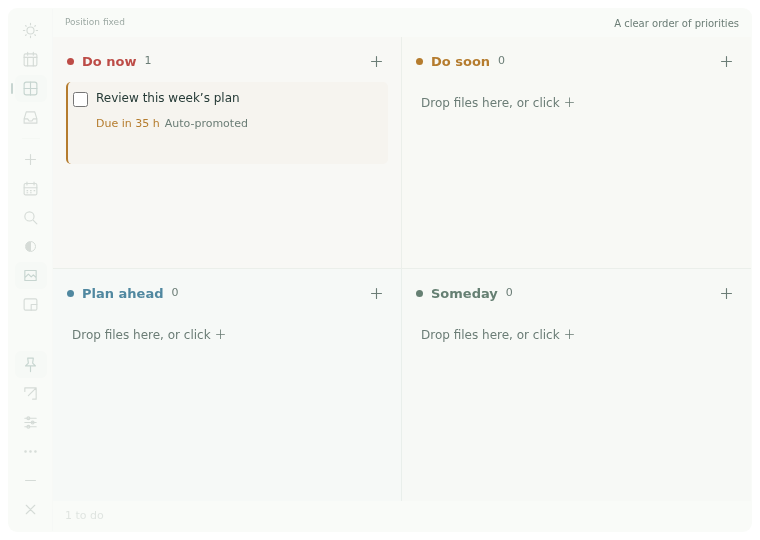
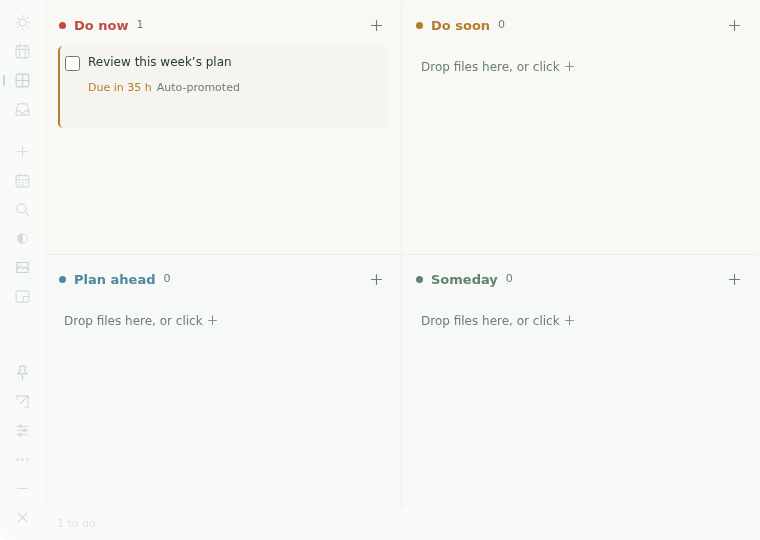
fix: dock flush to top-right edge and remove caption row

diff --git a/src/renderer/styles.css b/src/renderer/styles.css
@@ -2,7 +2,7 @@
 @media(prefers-color-scheme:dark){:root{--surface-rgb:26,47,35}}
 :root[data-theme="light"]{color-scheme:light;--surface-rgb:247,251,246}
 :root[data-theme="dark"]{color-scheme:dark;--surface-rgb:26,47,35}
-*{box-sizing:border-box}body{margin:0;padding:8px;background:transparent;color:var(--ink);height:100vh;overflow:hidden}button,input,select,textarea{font:inherit}button{color:var(--ink);border:0;background:transparent;border-radius:6px;padding:6px 9px;cursor:pointer;display:inline-flex;align-items:center;justify-content:center;gap:6px;line-height:1.5}button:hover{background:color-mix(in srgb,var(--surface) 80%,transparent)}button:disabled{cursor:default;opacity:.45}button:focus-visible,input:focus-visible,select:focus-visible,textarea:focus-visible{outline:2px solid var(--accent);outline-offset:3px}input,select,textarea{color:var(--ink);background:var(--field);border:1px solid var(--line);border-radius:6px;min-width:0}input:not([type="checkbox"]):not([type="range"]),select,textarea{padding:8px 10px}input[type="checkbox"]{accent-color:var(--accent);width:15px;height:15px;margin:3px 0;flex-shrink:0}input[type="range"]{accent-color:var(--accent);padding:0;cursor:pointer}select{cursor:pointer}textarea{resize:vertical;max-height:160px}button,.task{user-select:none}small{font-size:11px;color:var(--muted)}p{margin:0}h2{margin:0;font-size:13px;font-weight:500}[hidden]{display:none!important}.icon-defs{position:absolute;width:0;height:0;overflow:hidden}.icon{width:17px;height:17px;stroke:currentColor;stroke-width:1.6;stroke-linecap:round;stroke-linejoin:round;fill:none;flex-shrink:0}.app-window{height:100%;display:flex;flex-direction:column;position:relative;border:1px solid color-mix(in srgb,var(--line) 65%,transparent);border-radius:12px;background:rgba(var(--surface-rgb),var(--alpha));overflow:hidden;box-shadow:0 5px 16px #102c1412}.toolbar{height:54px;flex-shrink:0;padding:0 15px;display:flex;align-items:center;justify-content:space-between;border-bottom:1px solid color-mix(in srgb,var(--line) 60%,transparent);-webkit-app-region:drag}.brand{display:flex;align-items:center;gap:9px;letter-spacing:3px;font-weight:500}.brand .icon{width:18px;height:18px}.toolbar-controls{display:flex;align-items:center;gap:4px;-webkit-app-region:no-drag}.toolbar button{height:30px;min-width:28px}.toolbar .subtle{color:var(--muted);font-size:11px}.toolbar-divider{width:1px;height:16px;background:var(--line);margin:0 5px}.opacity-dot{width:11px;height:11px;border-radius:50%;border:1px solid currentColor;background:linear-gradient(90deg,currentColor 50%,transparent 50%)}.opacity-button{min-width:57px!important;margin-right:4px}.window-control{color:var(--muted)}#close-window:hover{background:var(--red);color:var(--on-accent)}.workspace{display:grid;grid-template-columns:minmax(0,1fr);flex:1;min-height:0}.workspace.with-calendar{grid-template-columns:minmax(0,1fr) 265px}.board{display:grid;grid-template-columns:repeat(2,minmax(0,1fr));grid-template-rows:repeat(2,minmax(0,1fr));min-height:0;min-width:0}.zone{min-height:0;min-width:0;padding:18px 14px 12px;display:flex;flex-direction:column}.zone:nth-child(odd){border-right:1px solid color-mix(in srgb,var(--line) 65%,transparent)}.zone:nth-child(-n+2){border-bottom:1px solid color-mix(in srgb,var(--line) 65%,transparent)}.zone-heading{display:flex;align-items:center;justify-content:space-between;margin-bottom:12px;padding:0 5px}.zone-heading h2{display:flex;align-items:center;gap:8px}.zone-heading .count{font-size:11px;color:var(--muted);font-weight:400}.zone-heading button{color:var(--muted);padding:2px}.task-list{min-height:0;overflow:auto;display:flex;flex-direction:column;gap:6px;padding:2px 4px 6px}.task{flex-shrink:0;min-width:0;border-left:2px solid var(--tone,var(--calm));border-radius:5px;padding:9px 8px;--tone:var(--calm);transition:background .16s,border-color .16s}.task[data-heat="warm"]{--tone:var(--warm)}.task[data-heat="hot"]{--tone:var(--hot)}.task[data-heat="red"],.task[data-heat="late"]{--tone:var(--red)}.task[data-heat="hot"],.task[data-heat="red"],.task[data-heat="late"]{background:color-mix(in srgb,var(--tone) 7%,transparent)}.task[data-selected="true"]{outline:1px solid var(--accent);background:color-mix(in srgb,var(--surface) 65%,transparent)}.task:hover{background:color-mix(in srgb,var(--surface) 55%,transparent)}.task-top{display:flex;gap:8px;align-items:flex-start}.task-title{padding:0;flex:1;min-width:0;text-align:left;justify-content:flex-start;overflow-wrap:anywhere;font-size:13px}.task-title:hover{background:transparent}.task-top input{cursor:pointer;margin-top:3px}.task-meta{margin:6px 0 0 23px;display:flex;align-items:center;flex-wrap:wrap;gap:7px;font-size:11px;color:var(--muted)}.due{color:var(--tone)}.file-tag{display:flex;gap:3px;align-items:center;min-width:0;max-width:100%}.file-tag .icon{width:12px;height:12px}.file-tag span{overflow:hidden;text-overflow:ellipsis;white-space:nowrap;max-width:150px}.empty-zone{color:var(--muted);font-size:12px;text-align:left;padding:12px 6px;opacity:.75}.drop-target{outline:1px dashed var(--accent);outline-offset:-5px;background:color-mix(in srgb,var(--surface) 65%,transparent)}.statusbar{min-height:35px;padding:7px 16px;border-top:1px solid color-mix(in srgb,var(--line) 65%,transparent);display:flex;align-items:center;gap:12px;font-size:11px;color:var(--muted);flex-shrink:0}.statusbar #task-count{white-space:nowrap}.statusbar #toast{overflow:hidden;text-overflow:ellipsis;white-space:nowrap}.statusbar .save-status{margin-left:auto;white-space:nowrap;opacity:.8}.text-button{color:var(--muted);padding:3px 5px;font-size:12px}.text-button:hover{color:var(--ink)}.statusbar .text-button{font-size:11px;text-decoration:underline;padding:0 2px}.popover{position:absolute;background:var(--surface);border:1px solid var(--line);border-radius:9px;box-shadow:0 8px 22px #09291320;z-index:5}.opacity-popover{top:48px;right:214px;width:215px;padding:15px}.opacity-popover label{display:flex;justify-content:space-between;font-size:12px}.opacity-popover input{width:100%;margin:12px 0 7px}.range-labels{display:flex;justify-content:space-between;color:var(--muted);font-size:11px}.opacity-popover .text-button{margin:7px 0 0 -5px;font-size:11px}.app-menu{top:48px;right:82px;width:155px;padding:6px}.app-menu button{display:flex;width:100%;justify-content:flex-start;padding:8px 10px;font-size:12px}.app-menu hr{border:0;border-top:1px solid var(--line);margin:5px}.calendar{border-left:1px solid color-mix(in srgb,var(--line) 65%,transparent);padding:17px 14px;overflow:auto;min-width:0}.month-heading{display:flex;justify-content:space-between;align-items:center;margin-bottom:10px;font-size:12px}.month-navigation{display:flex;gap:2px}.month-navigation button{padding:3px}.month-navigation .today-button{font-size:11px;color:var(--muted);padding:3px 5px}.weekdays,.calendar-days{display:grid;grid-template-columns:repeat(7,minmax(0,1fr));text-align:center;gap:3px}.weekdays{font-size:10px;color:var(--muted);margin-bottom:8px}.day{min-height:31px;position:relative;padding:4px 0 8px;font-size:12px}.day[aria-pressed="true"]{background:var(--accent);color:var(--on-accent)}.day[data-today="true"]{text-decoration:underline;text-underline-offset:4px}.day-dot{position:absolute;width:3px;height:3px;bottom:3px;left:calc(50% - 1.5px);border-radius:50%;background:currentColor}.agenda{margin-top:20px;padding-top:14px;border-top:1px solid color-mix(in srgb,var(--line) 65%,transparent)}.agenda-header{display:flex;justify-content:space-between;align-items:center;color:var(--muted);font-size:11px;margin-bottom:7px}.agenda-header button{padding:3px}.agenda-item{display:flex;width:100%;align-items:flex-start;justify-content:flex-start;text-align:left;gap:8px;font-size:12px;padding:7px 3px;overflow-wrap:anywhere}.agenda-item small{padding-top:1px;white-space:nowrap}.calendar-hint{margin-top:18px;color:var(--muted);font-size:11px}.agenda-empty{font-size:12px;color:var(--muted);padding:10px 0}.primary{background:var(--accent);color:var(--on-accent);padding:8px 16px}.primary:hover{background:var(--accent);filter:brightness(.96)}.danger-text{color:var(--red)}.spacer{flex:1}
+*{box-sizing:border-box}body{margin:0;padding:0;background:transparent;color:var(--ink);height:100vh;overflow:hidden}button,input,select,textarea{font:inherit}button{color:var(--ink);border:0;background:transparent;border-radius:6px;padding:6px 9px;cursor:pointer;display:inline-flex;align-items:center;justify-content:center;gap:6px;line-height:1.5}button:hover{background:color-mix(in srgb,var(--surface) 80%,transparent)}button:disabled{cursor:default;opacity:.45}button:focus-visible,input:focus-visible,select:focus-visible,textarea:focus-visible{outline:2px solid var(--accent);outline-offset:3px}input,select,textarea{color:var(--ink);background:var(--field);border:1px solid var(--line);border-radius:6px;min-width:0}input:not([type="checkbox"]):not([type="range"]),select,textarea{padding:8px 10px}input[type="checkbox"]{accent-color:var(--accent);width:15px;height:15px;margin:3px 0;flex-shrink:0}input[type="range"]{accent-color:var(--accent);padding:0;cursor:pointer}select{cursor:pointer}textarea{resize:vertical;max-height:160px}button,.task{user-select:none}small{font-size:11px;color:var(--muted)}p{margin:0}h2{margin:0;font-size:13px;font-weight:500}[hidden]{display:none!important}.icon-defs{position:absolute;width:0;height:0;overflow:hidden}.icon{width:17px;height:17px;stroke:currentColor;stroke-width:1.6;stroke-linecap:round;stroke-linejoin:round;fill:none;flex-shrink:0}.app-window{height:100%;display:flex;flex-direction:column;position:relative;border:1px solid color-mix(in srgb,var(--line) 65%,transparent);border-radius:12px;background:rgba(var(--surface-rgb),var(--alpha));overflow:hidden;box-shadow:0 5px 16px #102c1412}.toolbar{height:54px;flex-shrink:0;padding:0 15px;display:flex;align-items:center;justify-content:space-between;border-bottom:1px solid color-mix(in srgb,var(--line) 60%,transparent);-webkit-app-region:drag}.brand{display:flex;align-items:center;gap:9px;letter-spacing:3px;font-weight:500}.brand .icon{width:18px;height:18px}.toolbar-controls{display:flex;align-items:center;gap:4px;-webkit-app-region:no-drag}.toolbar button{height:30px;min-width:28px}.toolbar .subtle{color:var(--muted);font-size:11px}.toolbar-divider{width:1px;height:16px;background:var(--line);margin:0 5px}.opacity-dot{width:11px;height:11px;border-radius:50%;border:1px solid currentColor;background:linear-gradient(90deg,currentColor 50%,transparent 50%)}.opacity-button{min-width:57px!important;margin-right:4px}.window-control{color:var(--muted)}#close-window:hover{background:var(--red);color:var(--on-accent)}.workspace{display:grid;grid-template-columns:minmax(0,1fr);flex:1;min-height:0}.workspace.with-calendar{grid-template-columns:minmax(0,1fr) 265px}.board{display:grid;grid-template-columns:repeat(2,minmax(0,1fr));grid-template-rows:repeat(2,minmax(0,1fr));min-height:0;min-width:0}.zone{min-height:0;min-width:0;padding:18px 14px 12px;display:flex;flex-direction:column}.zone:nth-child(odd){border-right:1px solid color-mix(in srgb,var(--line) 65%,transparent)}.zone:nth-child(-n+2){border-bottom:1px solid color-mix(in srgb,var(--line) 65%,transparent)}.zone-heading{display:flex;align-items:center;justify-content:space-between;margin-bottom:12px;padding:0 5px}.zone-heading h2{display:flex;align-items:center;gap:8px}.zone-heading .count{font-size:11px;color:var(--muted);font-weight:400}.zone-heading button{color:var(--muted);padding:2px}.task-list{min-height:0;overflow:auto;display:flex;flex-direction:column;gap:6px;padding:2px 4px 6px}.task{flex-shrink:0;min-width:0;border-left:2px solid var(--tone,var(--calm));border-radius:5px;padding:9px 8px;--tone:var(--calm);transition:background .16s,border-color .16s}.task[data-heat="warm"]{--tone:var(--warm)}.task[data-heat="hot"]{--tone:var(--hot)}.task[data-heat="red"],.task[data-heat="late"]{--tone:var(--red)}.task[data-heat="hot"],.task[data-heat="red"],.task[data-heat="late"]{background:color-mix(in srgb,var(--tone) 7%,transparent)}.task[data-selected="true"]{outline:1px solid var(--accent);background:color-mix(in srgb,var(--surface) 65%,transparent)}.task:hover{background:color-mix(in srgb,var(--surface) 55%,transparent)}.task-top{display:flex;gap:8px;align-items:flex-start}.task-title{padding:0;flex:1;min-width:0;text-align:left;justify-content:flex-start;overflow-wrap:anywhere;font-size:13px}.task-title:hover{background:transparent}.task-top input{cursor:pointer;margin-top:3px}.task-meta{margin:6px 0 0 23px;display:flex;align-items:center;flex-wrap:wrap;gap:7px;font-size:11px;color:var(--muted)}.due{color:var(--tone)}.file-tag{display:flex;gap:3px;align-items:center;min-width:0;max-width:100%}.file-tag .icon{width:12px;height:12px}.file-tag span{overflow:hidden;text-overflow:ellipsis;white-space:nowrap;max-width:150px}.empty-zone{color:var(--muted);font-size:12px;text-align:left;padding:12px 6px;opacity:.75}.drop-target{outline:1px dashed var(--accent);outline-offset:-5px;background:color-mix(in srgb,var(--surface) 65%,transparent)}.statusbar{min-height:35px;padding:7px 16px;border-top:1px solid color-mix(in srgb,var(--line) 65%,transparent);display:flex;align-items:center;gap:12px;font-size:11px;color:var(--muted);flex-shrink:0}.statusbar #task-count{white-space:nowrap}.statusbar #toast{overflow:hidden;text-overflow:ellipsis;white-space:nowrap}.statusbar .save-status{margin-left:auto;white-space:nowrap;opacity:.8}.text-button{color:var(--muted);padding:3px 5px;font-size:12px}.text-button:hover{color:var(--ink)}.statusbar .text-button{font-size:11px;text-decoration:underline;padding:0 2px}.popover{position:absolute;background:var(--surface);border:1px solid var(--line);border-radius:9px;box-shadow:0 8px 22px #09291320;z-index:5}.opacity-popover{top:48px;right:214px;width:215px;padding:15px}.opacity-popover label{display:flex;justify-content:space-between;font-size:12px}.opacity-popover input{width:100%;margin:12px 0 7px}.range-labels{display:flex;justify-content:space-between;color:var(--muted);font-size:11px}.opacity-popover .text-button{margin:7px 0 0 -5px;font-size:11px}.app-menu{top:48px;right:82px;width:155px;padding:6px}.app-menu button{display:flex;width:100%;justify-content:flex-start;padding:8px 10px;font-size:12px}.app-menu hr{border:0;border-top:1px solid var(--line);margin:5px}.calendar{border-left:1px solid color-mix(in srgb,var(--line) 65%,transparent);padding:17px 14px;overflow:auto;min-width:0}.month-heading{display:flex;justify-content:space-between;align-items:center;margin-bottom:10px;font-size:12px}.month-navigation{display:flex;gap:2px}.month-navigation button{padding:3px}.month-navigation .today-button{font-size:11px;color:var(--muted);padding:3px 5px}.weekdays,.calendar-days{display:grid;grid-template-columns:repeat(7,minmax(0,1fr));text-align:center;gap:3px}.weekdays{font-size:10px;color:var(--muted);margin-bottom:8px}.day{min-height:31px;position:relative;padding:4px 0 8px;font-size:12px}.day[aria-pressed="true"]{background:var(--accent);color:var(--on-accent)}.day[data-today="true"]{text-decoration:underline;text-underline-offset:4px}.day-dot{position:absolute;width:3px;height:3px;bottom:3px;left:calc(50% - 1.5px);border-radius:50%;background:currentColor}.agenda{margin-top:20px;padding-top:14px;border-top:1px solid color-mix(in srgb,var(--line) 65%,transparent)}.agenda-header{display:flex;justify-content:space-between;align-items:center;color:var(--muted);font-size:11px;margin-bottom:7px}.agenda-header button{padding:3px}.agenda-item{display:flex;width:100%;align-items:flex-start;justify-content:flex-start;text-align:left;gap:8px;font-size:12px;padding:7px 3px;overflow-wrap:anywhere}.agenda-item small{padding-top:1px;white-space:nowrap}.calendar-hint{margin-top:18px;color:var(--muted);font-size:11px}.agenda-empty{font-size:12px;color:var(--muted);padding:10px 0}.primary{background:var(--accent);color:var(--on-accent);padding:8px 16px}.primary:hover{background:var(--accent);filter:brightness(.96)}.danger-text{color:var(--red)}.spacer{flex:1}
 dialog{padding:0;color:var(--ink);background:var(--surface);border:1px solid var(--line);border-radius:12px;box-shadow:0 16px 60px #00140733;max-width:calc(100vw - 40px);max-height:calc(100vh - 42px);overflow:auto}dialog::backdrop{background:light-dark(#19342428,#06150b50)}.task-dialog{width:550px}.dialog-heading{height:51px;display:flex;align-items:center;justify-content:space-between;padding:0 20px;border-bottom:1px solid var(--line);font-weight:500;position:sticky;top:0;background:var(--surface);z-index:1}.dialog-heading button{padding:5px}.editor-body{padding:18px 22px;display:grid;gap:14px}.field{display:flex;flex-direction:column;gap:6px;min-width:0}.field>span{color:var(--muted);font-size:11px}.field small{margin-left:4px;opacity:.75}.title-field input{font-size:16px;font-weight:500}.field-row{display:grid;grid-template-columns:1fr 1.5fr;gap:12px}.inline-hint{color:var(--hot);font-size:11px}.attachment-header{display:flex;align-items:center;justify-content:space-between;font-size:12px;margin-top:1px}.attachments{display:grid;gap:7px;max-height:155px;overflow:auto}.attachment{padding:8px;border:1px solid var(--line);border-radius:6px;display:flex;align-items:center;gap:7px;min-width:0}.attachment-name{flex:1;min-width:0;text-align:left;justify-content:flex-start;padding:0;overflow-wrap:anywhere;font-size:12px}.attachment-name span{min-width:0;overflow:hidden;text-overflow:ellipsis;white-space:nowrap}.attachment-actions{display:flex;gap:2px}.attachment-actions button{padding:3px;font-size:11px}.attachment.missing{border-style:dashed}.attachment.missing .attachment-name{color:var(--red)}.empty-attachments{font-size:12px;color:var(--muted);padding:10px;border:1px dashed var(--line);border-radius:6px}.check-field{display:flex;gap:8px;align-items:flex-start;font-size:12px}.check-field small{display:block}.dialog-footer{border-top:1px solid var(--line);padding:12px 20px;display:flex;gap:8px;align-items:center;position:sticky;bottom:0;background:var(--surface)}.dialog-footer button{font-size:12px}.form-error{font-size:12px;color:var(--red)}.library-dialog{width:600px}.library-tools{display:flex;gap:9px;padding:15px 20px;border-bottom:1px solid var(--line)}.library-tools input{flex:1;min-width:0}.library-tools select{max-width:155px;font-size:12px}.library-list{padding:8px 20px 20px;min-height:180px}.library-item{border-bottom:1px solid var(--line);padding:12px 0;display:flex;align-items:center;gap:10px}.library-title{flex:1;min-width:0;display:flex;flex-direction:column;align-items:flex-start;text-align:left;overflow-wrap:anywhere;padding:3px 0}.library-title small{margin-top:4px}.library-actions{display:flex;gap:4px}.library-actions button{font-size:11px;white-space:nowrap}.library-empty{padding:28px 0;text-align:center;color:var(--muted);font-size:12px}.settings-dialog{width:500px}.settings-body{padding:17px 22px}.settings-body section+section{border-top:1px solid var(--line);padding-top:17px;margin-top:17px}.settings-body h2{font-size:12px;margin-bottom:9px;color:var(--muted)}.setting-row{display:flex;align-items:center;justify-content:space-between;gap:16px;min-height:39px;font-size:12px}.setting-row span small{display:block;margin-top:2px}.setting-row select{padding:5px 8px;font-size:12px}.setting-row input[type="checkbox"]{width:16px;height:16px}.settings-body p{font-size:12px;color:var(--muted);line-height:1.8}.backup-actions{display:flex;gap:8px;margin:12px 0}.backup-actions button{border:1px solid var(--line);font-size:12px}.settings-body .about{font-size:11px;margin-top:18px;color:var(--muted);text-align:center}.confirm-dialog{width:390px}.confirm-body{padding:24px}.confirm-body h2{font-size:16px;font-weight:500}.confirm-body p{font-size:12px;color:var(--muted);margin-top:12px;line-height:1.8}.confirm-body>div{display:flex;justify-content:flex-end;gap:8px;margin-top:22px}.confirm-body button{font-size:12px}::-webkit-scrollbar{width:5px;height:5px}::-webkit-scrollbar-thumb{background:color-mix(in srgb,var(--muted) 28%,transparent);border-radius:6px}::-webkit-scrollbar-track{background:transparent}
 @media(max-width:800px){.workspace.with-calendar{grid-template-columns:minmax(0,1fr) 235px}.zone{padding:15px 9px 8px}.zone-heading{margin-bottom:8px}.task-title{font-size:12px}.task{padding:7px 5px}.file-tag span{max-width:105px}.calendar{padding:15px 10px}.toolbar{padding:0 11px}.task-meta{gap:5px}.statusbar .save-status{display:none}}
 @media(prefers-reduced-motion:reduce){*{transition:none!important}}
@@ -32,7 +32,7 @@ dialog{padding:0;color:var(--ink);background:var(--surface);border:1px solid var
 :root:lang(en){font-family:system-ui,-apple-system,"Segoe UI",sans-serif}:root:lang(en) .app-menu{width:205px}:root:lang(en) .save-status{flex-shrink:0}
 
 /* A narrow tool strip leaves the desktop panel to its tasks. */
-.app-window{display:grid;grid-template-columns:44px minmax(0,1fr);grid-template-rows:28px minmax(0,1fr) auto}
+.app-window{display:grid;grid-template-columns:44px minmax(0,1fr);grid-template-rows:minmax(0,1fr) auto}
 .tool-rail{grid-column:1;grid-row:1 / -1;display:flex;flex-direction:column;align-items:center;gap:2px;padding:8px 4px;min-height:0;overflow-y:auto;overflow-x:hidden;border-right:1px solid color-mix(in srgb,var(--line) calc(45% * var(--alpha)),transparent);scrollbar-width:thin}
 .tool-rail .view-tabs,.tool-rail .toolbar-controls{display:flex;flex-direction:column;gap:2px;padding:0;border:0;width:100%;flex-shrink:0}
 .tool-rail button{position:relative;display:flex;align-items:center;justify-content:center;width:32px;height:27px;min-height:27px;min-width:0;padding:4px;color:var(--muted);flex-shrink:0;opacity:1}
@@ -40,10 +40,9 @@ dialog{padding:0;color:var(--ink);background:var(--surface);border:1px solid var
 .tool-rail button[aria-current="true"]:before{content:"";position:absolute;left:-4px;top:8px;height:11px;width:2px;background:currentColor;border-radius:2px}
 .tool-rail #inbox-count{position:absolute;right:0;top:0;font-size:8px;line-height:10px;opacity:1}
 .rail-divider{height:1px;background:color-mix(in srgb,var(--line) calc(50% * var(--alpha)),transparent);width:18px;margin:5px 0;flex-shrink:0}.rail-spacer{flex:1;min-height:6px}
-.toolbar,.desktop-blend .toolbar,.compact-mode .toolbar{grid-column:2;grid-row:1;height:28px;padding:0 12px;border:0;gap:12px;justify-content:space-between;color:var(--muted);font-size:10px;cursor:move}
-.position-fixed .toolbar{ -webkit-app-region:no-drag;cursor:default}
-#position-status{font-size:9px;opacity:.65;white-space:nowrap}#view-caption{overflow:hidden;text-overflow:ellipsis;white-space:nowrap;opacity:var(--text-alpha)}
-.workspace,#compact-panel{grid-column:2;grid-row:2;min-height:0;min-width:0}.statusbar{grid-column:2;grid-row:3;padding:6px 12px;min-height:30px}
+.rail-spacer{-webkit-app-region:drag;cursor:move}.position-fixed .rail-spacer{-webkit-app-region:no-drag;cursor:default}
+.edge-docked .app-window{border-radius:0 0 0 10px}
+.workspace,#compact-panel{grid-column:2;grid-row:1;min-height:0;min-width:0}.statusbar{grid-column:2;grid-row:2;padding:6px 12px;min-height:30px}
 .opacity-popover{left:49px;right:auto;top:114px;max-height:calc(100% - 125px);overflow:auto}
 .app-menu{left:49px;right:auto;top:auto;bottom:42px;max-height:calc(100% - 55px);overflow:auto}
 .compact-mode .tool-rail .view-tabs,.compact-mode .rail-divider,.compact-mode #search-button,.compact-mode #calendar-toggle,.compact-mode #opacity-button,.compact-mode #blend-toggle,.compact-mode #settings-button,.compact-mode #menu-button{display:none}

diff --git a/src/renderer/index.html b/src/renderer/index.html
@@ -35,7 +35,7 @@
     <symbol id="i-move" viewBox="0 0 24 24"><path d="M12 3v18M3 12h18m-12-6 3-3 3 3M9 18l3 3 3-3M6 9l-3 3 3 3m12-6 3 3-3 3"/></symbol>
   </defs></svg>
 
-  <div class="app-window" id="app">
+  <div class="app-window" id="app" role="region" aria-label="日序">
     <aside class="tool-rail" aria-label="面板工具">
       <nav class="view-tabs" aria-label="任务视图"><button data-tab="today" aria-label="今天" title="今天"><svg class="icon" aria-hidden="true"><use href="#i-today"/></svg></button>
       <button data-tab="week" aria-label="本周" title="本周"><svg class="icon" aria-hidden="true"><use href="#i-week"/></svg></button>
@@ -50,7 +50,7 @@
       <button id="blend-toggle" aria-label="切换桌面融合模式" title="切换桌面融合模式" ><svg class="icon" aria-hidden="true"><use href="#i-blend"/></svg></button>
       <button id="compact-toggle" aria-label="缩为小窗" title="缩为小窗" ><svg class="icon" aria-hidden="true"><use href="#i-compact"/></svg></button>
       </div>
-      <div class="rail-spacer"></div>
+      <div class="rail-spacer" title="解锁后拖动此处移动"></div>
       <div class="toolbar-controls"><button id="position-toggle" aria-label="解锁位置" title="解锁位置" aria-pressed="true"><svg class="icon" aria-hidden="true"><use href="#i-pin"/></svg></button>
       <button id="dock-right" aria-label="停靠右上角" title="停靠右上角" ><svg class="icon" aria-hidden="true"><use href="#i-dock"/></svg></button>
       <button id="settings-button" aria-label="设置与备份" title="设置与备份" ><svg class="icon" aria-hidden="true"><use href="#i-settings"/></svg></button>
@@ -59,7 +59,6 @@
       <button id="close-window" aria-label="关闭面板" title="关闭面板" ><svg class="icon" aria-hidden="true"><use href="#i-close"/></svg></button>
       </div>
       </aside>
-    <header class="toolbar"><span id="position-status"></span><span id="view-caption"></span></header>
     <div class="popover opacity-popover" id="opacity-popover" hidden>
       <label for="transparency">背景透明度 <output id="transparency-value">35%</output></label>
       <input id="transparency" type="range" min="0" max="100" value="35">
@@ -117,7 +116,7 @@
       <label class="setting-row"><span>固定位置 <small>禁止拖动窗口，仍可操作任务和拖入文件</small></span><input type="checkbox" data-setting="positionFixed"></label>
       <label class="setting-row"><span>停靠位置</span><select data-setting="windowPosition"><option value="top-right">右上角</option><option value="manual">手动位置</option></select></label>
       <label class="setting-row"><span>右侧留白（像素） <small>为右侧桌面文件留出空间</small></span><input type="number" min="0" max="480" step="24" data-setting="desktopInset"></label>
-      <p>面板和小窗均不置顶。解锁后拖动顶部空白处，再固定位置。</p>
+      <p>面板和小窗均不置顶。解锁后拖动左侧图标栏的空白处，再固定位置。</p>
       <label class="setting-row"><span>关闭面板后留在后台</span><input type="checkbox" data-setting="closeToTray"></label>
       <label class="setting-row"><span>开机启动 <small id="autostart-hint"></small></span><input type="checkbox" data-setting="autoStart"></label></section>
       <section><h2>安排与随手记</h2><label class="setting-row"><span>每日可安排时间（分钟）</span><input type="number" min="30" max="1440" step="30" data-setting="dailyCapacity"></label><label class="setting-row"><span>全局快捷输入 <small id="quick-hint"></small></span><input type="checkbox" data-setting="quickCapture"></label><label class="setting-row"><span>快捷键</span><select data-setting="quickShortcut"><option value="CommandOrControl+Shift+Space">Ctrl / ⌘ + Shift + 空格</option><option value="Alt+Shift+Space">Alt + Shift + 空格</option></select></label></section>

diff --git a/src/renderer/app.js b/src/renderer/app.js
@@ -62,7 +62,8 @@
     $('#position-toggle').setAttribute('aria-pressed', String(state.settings.positionFixed));
     $('#position-toggle').setAttribute('aria-label', state.settings.positionFixed ? tr('解锁位置') : tr('固定位置'));
     $('#position-toggle').title = $('#position-toggle').getAttribute('aria-label');
-    $('#position-status').textContent = state.native.panelLocked ? tr('鼠标穿透中') : state.settings.positionFixed ? tr('位置已固定') : tr('拖动此处移动');
+    $('#app').setAttribute('aria-label', state.native.panelLocked ? tr('鼠标穿透中') : tr('日序'));
+    document.body.classList.toggle('edge-docked', state.settings.windowPosition === 'top-right' && state.settings.desktopInset === 0);
     renderBoard(); renderCalendar(); renderPlanner();
     if ($('#library-dialog').open) renderLibrary();
     if ($('#settings-dialog').open) renderSettings();
@@ -102,7 +103,6 @@
     const top = todays.filter(t => t.focusDay === today), other = todays.filter(t => t.focusDay !== today);
     $('#inbox-count').textContent = inbox.length || '';
     $('#task-count').textContent = tr`${active.length} 件待办`;
-    $('#view-caption').textContent = view === 'quadrants' ? tr('按紧急程度，轻重有序') : view === 'week' ? tr('安排日期与截止日期独立') : view === 'inbox' ? tr('先记下来，稍后安排') : new Date(now).toLocaleDateString(locale(), { month: 'long', day: 'numeric', weekday: 'long' });
     const total = todays.reduce((sum, t) => sum + t.estimatedMinutes, 0);
     if (view === 'today') {
       $('#planner').className = 'planner today-view';
@@ -300,7 +300,7 @@
   $('#close-window').onclick = action(() => call('window:close'));
   $('#quit').onclick = action(() => call('window:quit'));
   $('#position-toggle').onclick = action(() => call('settings', { positionFixed: !state.settings.positionFixed, windowPosition: 'manual' }));
-  $('#dock-right').onclick = action(() => call('settings', { windowPosition: 'top-right', positionFixed: true }));
+  $('#dock-right').onclick = action(() => call('settings', { windowPosition: 'top-right', positionFixed: true, desktopInset: 0 }));
   $('#settings-button').onclick = () => { closePopovers(); renderSettings(); $('#settings-dialog').showModal(); };
   $('#undo').onclick = action(async () => { await call('undo'); toast(tr('已撤销')); });
   $('#export-backup').onclick = action(async () => { if (await call('backup:export')) toast(tr('备份已导出，不包含原文件')); });

diff --git a/src/i18n.js b/src/i18n.js
@@ -1,6 +1,8 @@
 (function (root) {
   'use strict';
   const english = {
+  "解锁后拖动此处移动": "Unlock, then drag here to move",
+  "面板和小窗均不置顶。解锁后拖动左侧图标栏的空白处，再固定位置。": "Neither panel stays on top. Unlock, drag the empty part of the left sidebar, then fix its position.",
   "固定位置": "Fix position",
   "解锁位置": "Unlock position",
   "位置已固定": "Position fixed",

diff --git a/docs/PRD.zh-CN.md b/docs/PRD.zh-CN.md
@@ -1,6 +1,6 @@
-# 日序 · 桌面计划 PRD v1.4
+# 日序 · 桌面计划 PRD v1.5
 
-应用版本：1.0.2 · 2026-09-13
+应用版本：1.0.3 · 2026-09-13
 
 ## 产品定位
 
@@ -102,8 +102,10 @@ Git 管理源代码，公开仓库为 [asoming/rixu](https://github.com/asoming/
 
 ## 右上角停靠与固定位置（1.0.2）
 
-默认靠屏幕可用区域右上角停靠，距边缘 24 像素，默认在右侧再留 120 像素用于一列桌面文件；新安装默认 760 × 540。固定位置默认开启，任务编辑、勾选和文件拖放照常工作。左侧图钉可解锁，拖动顶部空白处后再固定；斜向箭头可回到右上角。设置中的「右侧留白」可额外预留 0–480 像素。切换小窗后继续贴靠右上角，手动位置在展开时恢复。显示器移除或分辨率变化时保持在可用区域内。
+默认紧贴屏幕可用区域右上角，窗口与可见面板均不留外侧空隙；新安装默认 760 × 540。固定位置默认开启，任务编辑、勾选和文件拖放照常工作。左侧图钉可解锁，拖动左侧图标栏空白处后再固定；斜向箭头可回到右上角，同时将右侧留白设为 0。设置中的「右侧留白」可额外预留 0–480 像素。切换小窗后继续贴靠右上角，手动位置在展开时恢复。显示器移除或分辨率变化时保持在可用区域内。
 
 主面板、小窗和随手记均不设为置顶，其他应用可以正常盖住日序。旧备份中的置顶选项会被关闭。功能入口集中到左侧小图标栏，悬停显示当前语言的名称；面板内不再显示品牌图标。应用启动器图标继续用于找到和打开软件。
 
 固定位置与鼠标穿透是不同功能：固定仅禁止移动窗口，穿透会把点击交给后方桌面。程序不会移动桌面文件，也不能跨系统自动识别并避开每一个桌面图标；右侧留白、手动位置、穿透和收起可用于让出文件区域。测试使用隔离显示或 CI，不自动重启工作中的用户实例。
+
+1.0.3 移除顶部状态文字、说明文字及整行占位；解锁拖动区改到左侧栏空白处。贴边仍避开系统菜单栏与任务栏。

diff --git a/README.en.md b/README.en.md
@@ -87,8 +87,10 @@ Report problems in [Issues](https://github.com/asoming/rixu/issues). Source is p
 
 ## Top-right docking and a fixed position (1.0.2)
 
-Rixu starts at the top right of the screen work area with a 24 px margin plus 120 px reserved on the right for a column of desktop files; fresh installs use 760 × 540. Position is fixed by default while task editing and file drops remain available. Use the pin in the left sidebar to unlock, drag the top strip, then fix the position again. The diagonal arrow docks it at the top right. Settings can reserve an additional 0–480 px on the right. Mini mode keeps the same corner; manual placement is restored when expanded. Monitor changes keep the window in the available work area.
+Rixu starts flush with the top-right corner of the screen work area, with no outer window or panel gap; fresh installs use 760 × 540. Position is fixed by default while task editing and file drops remain available. Use the pin in the left sidebar to unlock, drag the empty part of the left sidebar, then fix the position again. The diagonal arrow docks it flush at the top right and resets the right margin to zero. Settings can reserve an additional 0–480 px on the right. Mini mode keeps the same corner; manual placement is restored when expanded. Monitor changes keep the window in the available work area.
 
 The main panel, mini panel and quick capture never stay on top. Legacy topmost preferences are disabled. Controls live in a narrow left sidebar with translated hover labels; the panel no longer shows a brand logo. The application launcher retains its icon.
 
 Position locking does not pass clicks through. Mouse-through is a separate command. Rixu does not move desktop files and cannot automatically detect every desktop icon across operating systems. Use the right margin, manual position, mouse-through or hide the panel to make room. GUI tests run on an isolated display or in CI; updates do not automatically restart a working user instance.
+
+Version 1.0.3 removes the entire top caption row; the empty part of the sidebar becomes the unlocked drag area. Flush docking still respects the operating system menu bar and taskbar.

diff --git a/docs/INTRO.en.md b/docs/INTRO.en.md
@@ -16,8 +16,10 @@ Build workflows cover Windows, Linux, Apple Silicon Macs and Intel Macs. See the
 
 ## Top-right docking and a fixed position (1.0.2)
 
-Rixu starts at the top right of the screen work area with a 24 px margin plus 120 px reserved on the right for a column of desktop files; fresh installs use 760 × 540. Position is fixed by default while task editing and file drops remain available. Use the pin in the left sidebar to unlock, drag the top strip, then fix the position again. The diagonal arrow docks it at the top right. Settings can reserve an additional 0–480 px on the right. Mini mode keeps the same corner; manual placement is restored when expanded. Monitor changes keep the window in the available work area.
+Rixu starts flush with the top-right corner of the screen work area, with no outer window or panel gap; fresh installs use 760 × 540. Position is fixed by default while task editing and file drops remain available. Use the pin in the left sidebar to unlock, drag the empty part of the left sidebar, then fix the position again. The diagonal arrow docks it flush at the top right and resets the right margin to zero. Settings can reserve an additional 0–480 px on the right. Mini mode keeps the same corner; manual placement is restored when expanded. Monitor changes keep the window in the available work area.
 
 The main panel, mini panel and quick capture never stay on top. Legacy topmost preferences are disabled. Controls live in a narrow left sidebar with translated hover labels; the panel no longer shows a brand logo. The application launcher retains its icon.
 
 Position locking does not pass clicks through. Mouse-through is a separate command. Rixu does not move desktop files and cannot automatically detect every desktop icon across operating systems. Use the right margin, manual position, mouse-through or hide the panel to make room. GUI tests run on an isolated display or in CI; updates do not automatically restart a working user instance.
+
+Version 1.0.3 removes the entire top caption row; the empty part of the sidebar becomes the unlocked drag area. Flush docking still respects the operating system menu bar and taskbar.

diff --git a/README.md b/README.md
@@ -89,8 +89,10 @@ npm run test:package   # 运行刚打包的 App
 
 ## 右上角停靠与固定位置（1.0.2）
 
-默认靠屏幕可用区域右上角停靠，距边缘 24 像素，默认在右侧再留 120 像素用于一列桌面文件；新安装默认 760 × 540。固定位置默认开启，任务编辑、勾选和文件拖放照常工作。左侧图钉可解锁，拖动顶部空白处后再固定；斜向箭头可回到右上角。设置中的「右侧留白」可额外预留 0–480 像素。切换小窗后继续贴靠右上角，手动位置在展开时恢复。显示器移除或分辨率变化时保持在可用区域内。
+默认紧贴屏幕可用区域右上角，窗口与可见面板均不留外侧空隙；新安装默认 760 × 540。固定位置默认开启，任务编辑、勾选和文件拖放照常工作。左侧图钉可解锁，拖动左侧图标栏空白处后再固定；斜向箭头可回到右上角，同时将右侧留白设为 0。设置中的「右侧留白」可额外预留 0–480 像素。切换小窗后继续贴靠右上角，手动位置在展开时恢复。显示器移除或分辨率变化时保持在可用区域内。
 
 主面板、小窗和随手记均不设为置顶，其他应用可以正常盖住日序。旧备份中的置顶选项会被关闭。功能入口集中到左侧小图标栏，悬停显示当前语言的名称；面板内不再显示品牌图标。应用启动器图标继续用于找到和打开软件。
 
 固定位置与鼠标穿透是不同功能：固定仅禁止移动窗口，穿透会把点击交给后方桌面。程序不会移动桌面文件，也不能跨系统自动识别并避开每一个桌面图标；右侧留白、手动位置、穿透和收起可用于让出文件区域。测试使用隔离显示或 CI，不自动重启工作中的用户实例。
+
+1.0.3 移除顶部状态文字、说明文字及整行占位；解锁拖动区改到左侧栏空白处。贴边仍避开系统菜单栏与任务栏。

diff --git a/docs/LOCAL-WORKFLOW.zh-CN.md b/docs/LOCAL-WORKFLOW.zh-CN.md
@@ -1,0 +1,7 @@
+# 本机优先的更新顺序
+
+用户已明确要求：“更新阿每次更新肯定是我先用阿”。
+
+每次修改先在隔离显示环境完成测试并构建本机安装包，然后备份数据与旧程序、更新本机日序并重启日序供用户使用，再同步或安排 GitHub 发行。不要仅交付下载链接让用户自行升级。用户已授权这一更新流程中的日序重启；不应再把更早的“不打扰工作”解释成禁止更新重启。
+
+“不打扰工作”仍适用于日常运行和开发测试：后台不抢焦点、不强制置顶，GUI 回归使用隔离显示或 CI，不操作其他工作应用。若出现新的、具体的数据风险，先处理风险。日序的任务数据与个性化设置要保留，用户明确要求变更的设置除外。

diff --git a/docs/releases/1.0.3.md b/docs/releases/1.0.3.md
@@ -1,0 +1,3 @@
+默认紧贴可用桌面右上角，移除窗口外边距和顶部文字行。右上角停靠按钮同步清除右侧留白。解锁后从左侧栏空白处拖动，固定、任务操作与双语保持可用。
+
+The panel now sits flush with the top-right corner of the desktop work area. The outer gap and top caption row are removed. Docking resets the right margin; unlock and drag the empty sidebar area to move the panel.
